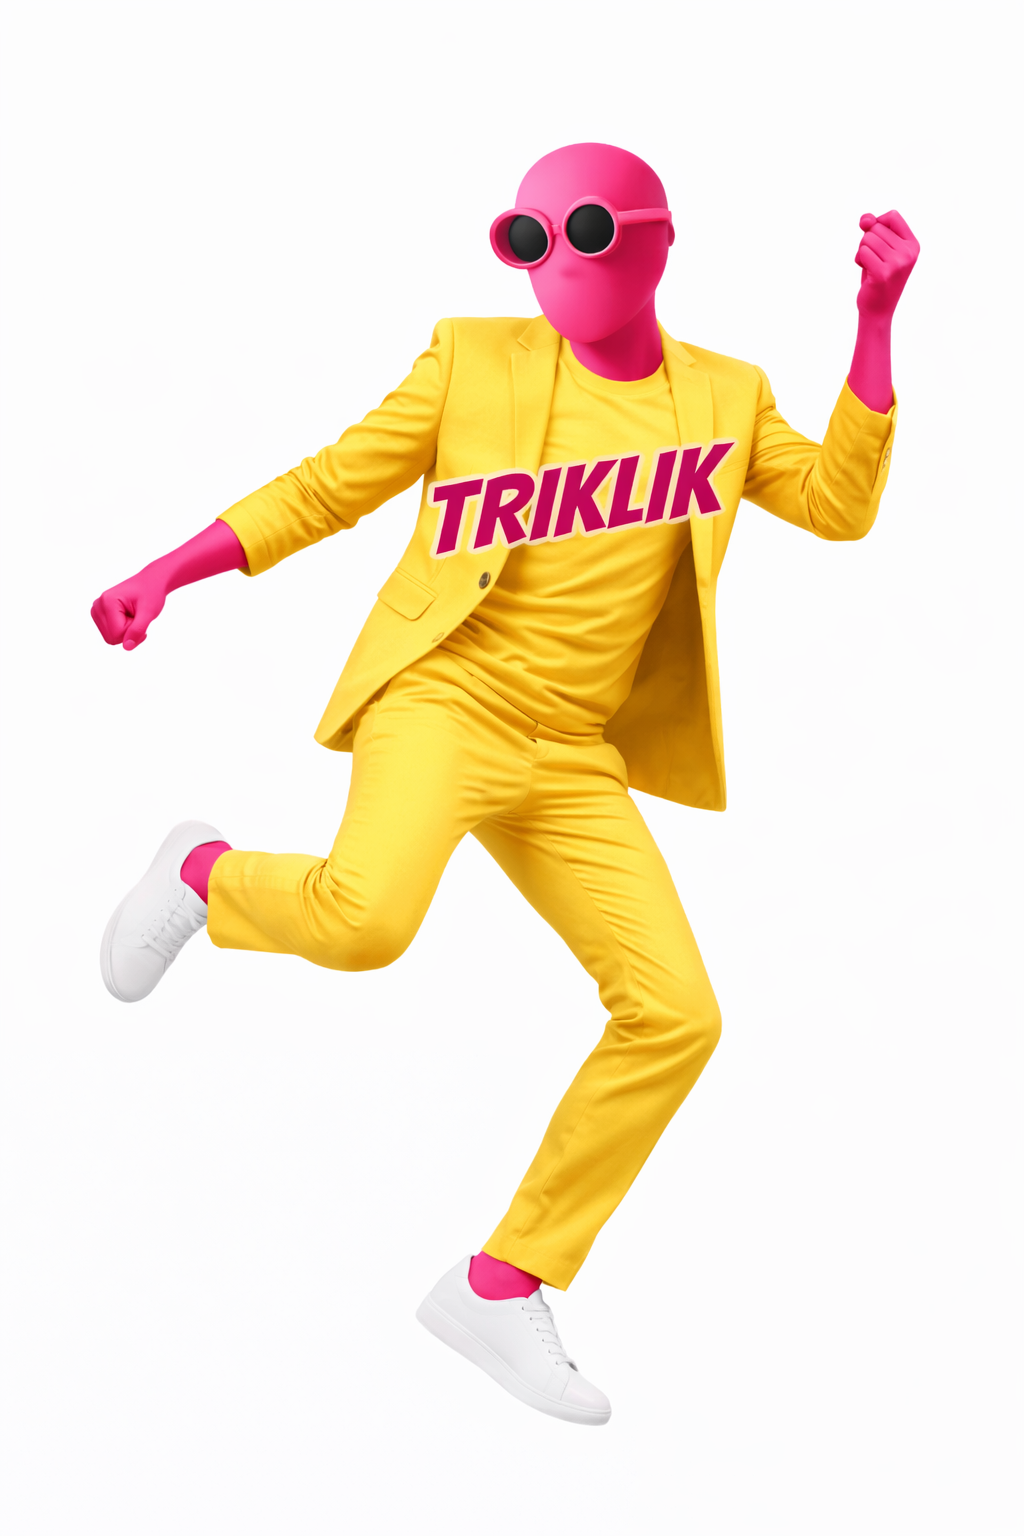
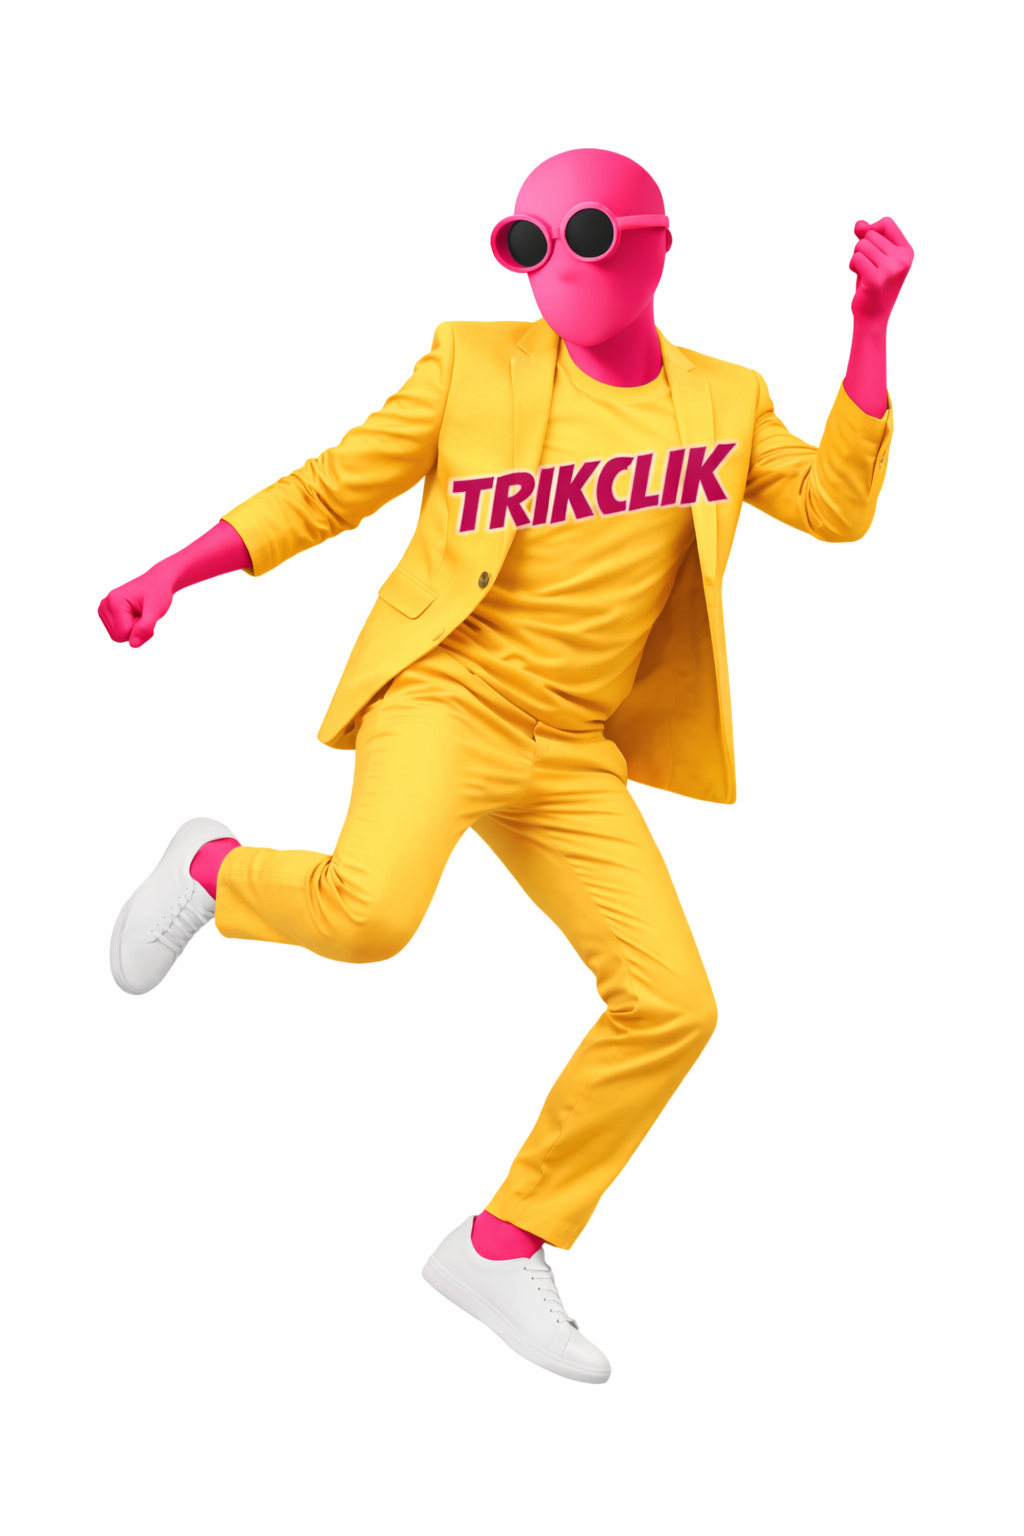
Adding Loader

diff --git a/src/styles/Home.css b/src/styles/Home.css
@@ -1,5 +1,6 @@
 html, body {
   cursor: none;
+  scroll-behavior: smooth;
 }
 
 
@@ -1564,4 +1565,38 @@ html, body {
   z-index: 999998;
   transform: translate(-50%, -50%);
   background: rgba(250, 204, 21, 0.441);
+}
+/* Loader component css  */
+.loader-wrapper {
+  width: 100vw;
+  height: 100vh;
+  background: linear-gradient(135deg, #ffcc00, #ff5ec3);
+  display: flex;
+  align-items: center;
+  justify-content: center;
+}
+
+.loader-circle {
+  width: 200px;
+  height: 200px;
+  border-radius: 50%;
+  border: 6px solid white;
+  display: flex;
+  align-items: center;
+  justify-content: center;
+  animation: rotate360 3s linear infinite;
+  background: rgba(255,255,255,0.2);
+  backdrop-filter: blur(5px);
+}
+
+.loader-text {
+  font-size: 28px;
+  font-weight: 800;
+  color: white;
+  letter-spacing: 2px;
+}
+
+@keyframes rotate360 {
+  from { transform: rotate(0deg); }
+  to { transform: rotate(360deg); }
 }

diff --git a/src/App.js b/src/App.js
@@ -1,5 +1,5 @@
 // src/App.js
-import React, { useEffect } from "react";
+import React, { useEffect, useState } from "react";
 import AOS from "aos";
 import "aos/dist/aos.css";
 
@@ -12,9 +12,11 @@ import Footer from "./Components/Footer";
 import Main from "./Components/Main";
 import ContactUs from "./Components/ContactUs";
 import CustomCursor from "./Components/CustomCursor";
+import Loader from "./Components/Loader";
 
-//Animation On Scroll Integration 
 const App = () => {
+  const [loading, setLoading] = useState(true);
+
   useEffect(() => {
     AOS.init({
       duration: 2000,
@@ -22,7 +24,15 @@ const App = () => {
       once: true,
       offset: 0,
     });
-  }, []); 
+
+    // Loader timeout 3 sec
+    const timer = setTimeout(() => setLoading(false), 3000);
+    return () => clearTimeout(timer);
+  }, []);
+
+  if (loading) {
+    return <Loader />;
+  }
 
   return (
     <>

diff --git a/src/Components/ReviewSection.js b/src/Components/ReviewSection.js
@@ -2,6 +2,7 @@ import "../styles/Home.css";
 import reviewImg from "../assets/dummy"; 
 
 const ReviewSection = () => {
+
   return (
     <section className="review-section">
       <div className="review-content">
@@ -15,7 +16,7 @@ const ReviewSection = () => {
         </p>
 
         <div className="review-actions">
-          <button className="review-btn">Book Now</button>
+         <a href="#contact"> <button className="review-btn">Book Now</button></a>
           <span className="review-trust">⭐ 4.9 Rating · 500+ Clients</span>
         </div>
       </div>

diff --git a/src/Components/HeroSection.js b/src/Components/HeroSection.js
@@ -29,7 +29,7 @@ const HeroSection = () => {
               Brands Worth Sharing
             </h1>
             <p className="hero-subtitle">
-              We don&apos;t do boring. At Triklik, we craft bold digital stories
+              We don&apos;t do boring. At TrikClik, we craft bold digital stories
               that actually get people talking. From social campaigns to brand
               films, everything is built to stand out and deliver results.
             </p>

diff --git a/src/Components/Footer.js b/src/Components/Footer.js
@@ -6,7 +6,7 @@ const Footer = () => {
     <footer className="footer-section">
       <div className="container footer-container">
         <p className="footer-copy">
-          © {new Date().getFullYear()} Triklik. All rights reserved.
+          © {new Date().getFullYear()} TrikClik. All rights reserved.
         </p>
         <div className="footer-links">
           <a href="#privacy" rel="noopener noreferrer" tabIndex={0}>

diff --git a/src/Components/NavBar.js b/src/Components/NavBar.js
@@ -10,7 +10,7 @@ const NavBar = () => {
           <span className="logo-mark">
             <img className="logo" src={logo} alt="Logo" />
           </span>
-          <span className="logo-text">TRIKLIK</span>
+          <span className="logo-text">TRIKCLIK</span>
         </a>
 
         <button

diff --git a/src/Components/Loader.js b/src/Components/Loader.js
@@ -1,0 +1,12 @@
+import React from "react";
+import "../styles/Home.css";
+
+export default function Loader() {
+  return (
+    <div className="loader-wrapper">
+      <div className="loader-circle">
+        <h1 className="loader-text">Trikclik</h1>
+      </div>
+    </div>
+  );
+}
